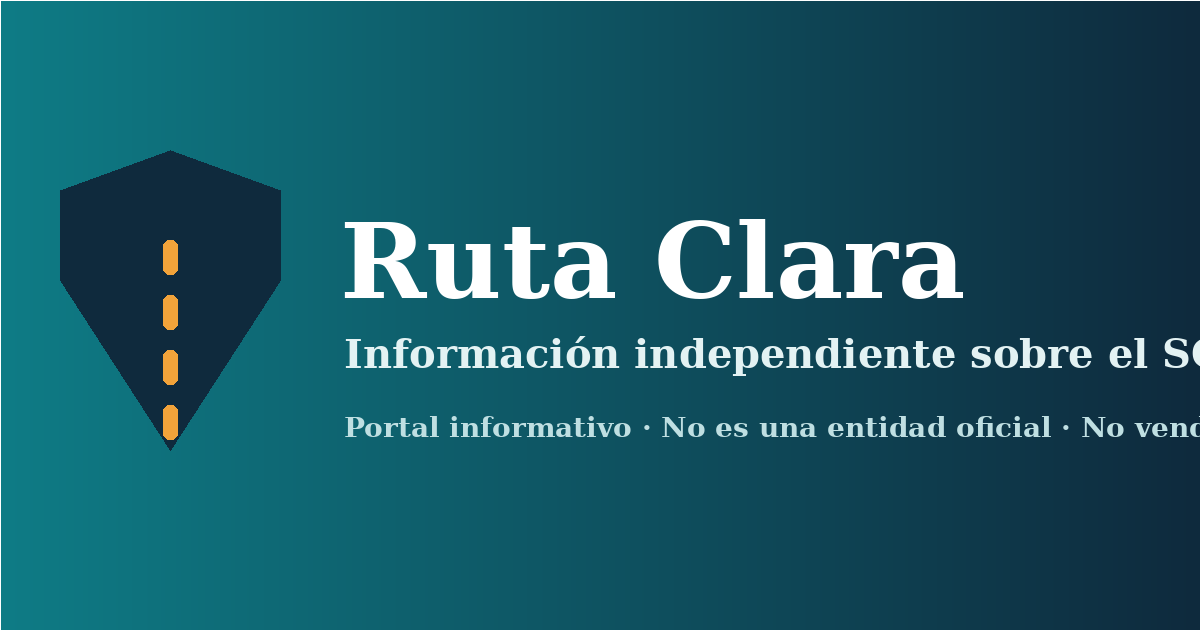
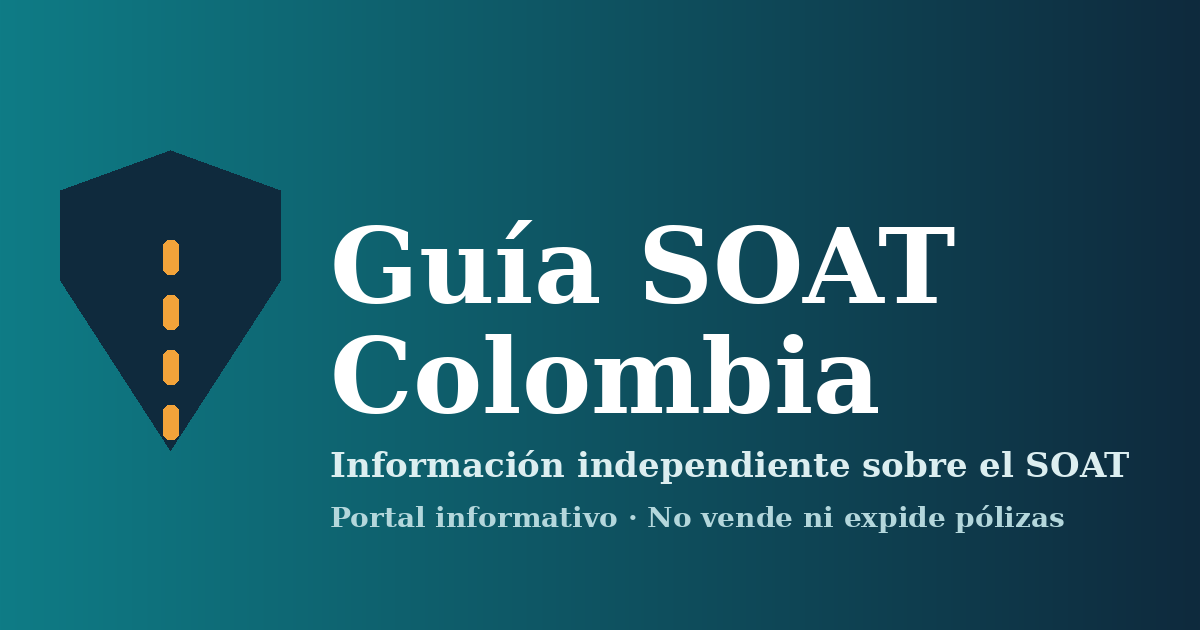
Renombrar el portal a Guia SOAT Colombia y anadir articulo sobre pago seguro

Changed region(s): [[0.2775, 0.5127, 1.0, 0.7841], [0.2775, 0.3317, 0.8017, 0.4825], [0.2775, 0.7841, 0.8942, 0.8444]]

diff --git a/public/assets/css/style.css b/public/assets/css/style.css
@@ -1,4 +1,4 @@
-/* Ruta Clara — hoja de estilos. Sin dependencias externas (rápido y privado). */
+/* Guía SOAT Colombia — hoja de estilos. Sin dependencias externas (rápido y privado). */
 :root{
   --ink:#0f2a3d; --ink-2:#27465b; --muted:#5b7080; --line:#dde3e7;
   --teal:#0e7c86; --teal-d:#0a5f67; --teal-l:#e3f2f3;

diff --git a/src/content/articles/13-como-comprar-o-pagar-el-soat-de-forma-segura.php b/src/content/articles/13-como-comprar-o-pagar-el-soat-de-forma-segura.php
@@ -1,0 +1,62 @@
+<?php
+return [
+    'slug' => 'como-comprar-o-pagar-el-soat-de-forma-segura',
+    'category' => 'guias',
+    'order' => 13,
+    'featured' => false,
+    'published' => '2026-11-23',
+    'updated' => '2026-11-23',
+    'title' => 'Cómo comprar o pagar el SOAT de forma segura y evitar fraudes',
+    'description' => 'Guía informativa para comprar o renovar el SOAT solo con aseguradoras autorizadas, comprobar la póliza en el RUNT y reconocer señales de fraude. Este portal no vende ni cobra.',
+    'summary' => 'Cómo elegir dónde comprar o pagar el SOAT, qué comprobar antes y después de pagar y qué señales delatan un fraude. Guía informativa: aquí no se vende ni se paga nada.',
+    'verification' => 'Las recomendaciones se basan en la regulación general del SOAT y en las advertencias públicas de las entidades del sector. Los canales de pago y las promociones cambian: confirma siempre en la web oficial de la aseguradora y en el RUNT.',
+    'sources' => [
+        ['Superintendencia Financiera de Colombia', 'https://www.superfinanciera.gov.co'],
+        ['Fasecolda', 'https://www.fasecolda.com'],
+        ['RUNT: sitio oficial', 'https://www.runt.com.co'],
+        ['Ministerio de Transporte', 'https://www.mintransporte.gov.co'],
+    ],
+    'related' => ['tarifas-soat-2026', 'como-verificar-si-el-soat-esta-vigente', 'como-consultar-el-soat-por-placa'],
+    'faq' => [
+        ['¿Puedo pagar el SOAT en este portal?', 'No. Guía SOAT Colombia es un portal informativo independiente: no vende, expide ni renueva pólizas y no recibe pagos. El SOAT solo lo expiden las aseguradoras autorizadas.'],
+        ['¿Se puede conseguir el SOAT más barato con un descuento?', 'Las tarifas del SOAT son reguladas y uniformes para cada categoría de vehículo. Desconfía de ofertas muy por debajo de la tarifa publicada: pueden ser fraude.'],
+        ['¿Cómo compruebo que mi pago generó una póliza válida?', 'Guarda el comprobante y verifica la póliza con tu placa en la plataforma oficial. Si no aparece, contacta de inmediato a la aseguradora que la expidió.'],
+    ],
+    'body' => <<<'HTML'
+<p>Comprar o renovar el SOAT es un trámite sencillo, pero también un blanco frecuente de estafas: páginas que imitan a aseguradoras, ofertas por redes sociales y pólizas que nunca se registran. Esta guía te ayuda a pagar con seguridad. <strong>Importante:</strong> este portal es informativo; no vende ni cobra el SOAT.</p>
+
+<h2>Dónde se compra o se paga el SOAT</h2>
+<p>El SOAT solo lo pueden expedir las <strong>aseguradoras autorizadas</strong> por la Superintendencia Financiera, ya sea en sus oficinas, en su página web oficial o a través de los canales que ellas mismas habiliten. Antes de pagar, comprueba que la entidad esté autorizada y entra a su sitio escribiendo tú mismo la dirección o desde la página de la propia aseguradora, no desde un anuncio o un mensaje que recibiste.</p>
+
+<h2>Cuánto debe costar</h2>
+<p>La prima del SOAT está regulada y es igual para todas las aseguradoras según la categoría del vehículo. Puedes contrastar el valor total en nuestra tabla de <a href="/tarifas/tarifas-soat-2026">tarifas SOAT 2026</a> y en la web de la aseguradora. Un precio notablemente inferior es una señal de alerta.</p>
+
+<h2>Antes de pagar</h2>
+<ul>
+  <li>Confirma que la dirección web sea la oficial de la aseguradora y que la conexión sea segura (https).</li>
+  <li>Verifica que la placa y el tipo de vehículo que aparecen sean correctos: de ellos depende el valor.</li>
+  <li>No pagues a cuentas personales ni por transferencias a terceros que te pida un supuesto asesor.</li>
+  <li>Desconfía de la urgencia ("solo hoy", "último cupo") y de quien te pida datos que no son necesarios.</li>
+</ul>
+
+<h2>Después de pagar</h2>
+<ol>
+  <li>Guarda el comprobante de pago y el documento de la póliza.</li>
+  <li>Comprueba que la póliza aparece registrada con tu placa. Mira [[como-consultar-el-soat-por-placa|cómo consultar el SOAT por placa]] y [[como-verificar-si-el-soat-esta-vigente|cómo verificar si está vigente]].</li>
+  <li>Si pasado un tiempo prudente no aparece, reclama a la aseguradora que la expidió y conserva toda la evidencia.</li>
+</ol>
+
+<div class="callout">
+  <p><strong>Regla de oro:</strong> nadie debería pedirte contraseñas, claves de tu banco o códigos de verificación para venderte un SOAT. Si lo hacen, detén el pago.</p>
+</div>
+
+<h2>Señales de fraude frecuentes</h2>
+<ul>
+  <li>Páginas con el logo de una aseguradora pero con una dirección web distinta a la oficial.</li>
+  <li>Ofertas por mensajería o redes sociales con precios por debajo de la tarifa.</li>
+  <li>Pólizas en PDF que no se pueden comprobar con la placa en el registro oficial.</li>
+  <li>Cobros adicionales no explicados o "gestión" por un trámite que no los requiere.</li>
+</ul>
+<p>Si sospechas de un fraude, no sigas pagando, reúne las pruebas y repórtalo a la aseguradora y a las autoridades competentes. Para más contexto sobre la cobertura, consulta [[que-es-el-soat-en-colombia|qué es el SOAT]] y [[multas-por-conducir-sin-soat|las consecuencias de circular sin SOAT]].</p>
+HTML,
+];

diff --git a/src/content/pages/aviso-legal.php b/src/content/pages/aviso-legal.php
@@ -2,8 +2,8 @@
 return [
     'slug' => 'aviso-legal',
     'title' => 'Aviso legal',
-    'description' => 'Aviso legal de Ruta Clara: naturaleza informativa e independiente del portal, ausencia de vínculo con entidades oficiales y limitación de responsabilidad.',
-    'lead' => 'Qué es y qué no es Ruta Clara.',
+    'description' => 'Aviso legal de Guía SOAT Colombia: naturaleza informativa e independiente del portal, ausencia de vínculo con entidades oficiales y limitación de responsabilidad.',
+    'lead' => 'Qué es y qué no es Guía SOAT Colombia.',
     'body' => <<<'HTML'
 <div class="callout warn"><p><strong>Datos del responsable pendientes.</strong> La identificación del titular del portal (nombre o razón social, documento de identificación y domicilio) se publicará aquí antes de activar la publicidad. Los campos marcados como <strong>[PENDIENTE]</strong> son marcadores provisionales y no corresponden a datos reales.</p></div>
 
@@ -16,19 +16,19 @@ return [
 </ul>
 
 <h2>Naturaleza del portal</h2>
-<p>Ruta Clara es un <strong>portal informativo independiente</strong> sobre el SOAT en Colombia. Ruta Clara <strong>no</strong> es una aseguradora, <strong>no</strong> vende, expide ni renueva pólizas, <strong>no</strong> actúa como intermediario de seguros, <strong>no</strong> recibe pagos por pólizas y <strong>no</strong> solicita información bancaria.</p>
+<p>Guía SOAT Colombia es un <strong>portal informativo independiente</strong> sobre el SOAT en Colombia. Guía SOAT Colombia <strong>no</strong> es una aseguradora, <strong>no</strong> vende, expide ni renueva pólizas, <strong>no</strong> actúa como intermediario de seguros, <strong>no</strong> recibe pagos por pólizas y <strong>no</strong> solicita información bancaria.</p>
 
 <h2>Ausencia de vínculo con entidades oficiales</h2>
-<p>Ruta Clara no es un sitio del Gobierno de Colombia y no está afiliado, patrocinado ni respaldado por el RUNT, la ADRES, la Superintendencia Financiera, el Ministerio de Transporte, Fasecolda ni por ninguna aseguradora. Los nombres de esas entidades se citan únicamente para identificar fuentes de información.</p>
+<p>Guía SOAT Colombia no es un sitio del Gobierno de Colombia y no está afiliado, patrocinado ni respaldado por el RUNT, la ADRES, la Superintendencia Financiera, el Ministerio de Transporte, Fasecolda ni por ninguna aseguradora. Los nombres de esas entidades se citan únicamente para identificar fuentes de información.</p>
 
 <h2>Carácter del contenido</h2>
 <p>El contenido es educativo y se elabora a partir de fuentes públicas citadas en cada artículo. No constituye asesoría legal, financiera ni de seguros. Las normas, tarifas y procedimientos pueden cambiar; cada artículo indica su fecha de revisión. Antes de tomar decisiones, confirma la información en la fuente oficial.</p>
 
 <h2>Limitación de responsabilidad</h2>
-<p>Hacemos un esfuerzo razonable por mantener la información exacta y actualizada, pero no garantizamos que esté libre de errores u omisiones. Ruta Clara no se hace responsable de las decisiones tomadas con base en el contenido del portal ni del contenido de sitios de terceros enlazados.</p>
+<p>Hacemos un esfuerzo razonable por mantener la información exacta y actualizada, pero no garantizamos que esté libre de errores u omisiones. Guía SOAT Colombia no se hace responsable de las decisiones tomadas con base en el contenido del portal ni del contenido de sitios de terceros enlazados.</p>
 
 <h2>Propiedad intelectual</h2>
-<p>Los textos, el diseño, el logotipo y las ilustraciones de Ruta Clara son obra original del proyecto. Los nombres y marcas de terceros pertenecen a sus titulares. Puedes citar fragmentos breves indicando la fuente y enlazando al artículo original.</p>
+<p>Los textos, el diseño, el logotipo y las ilustraciones de Guía SOAT Colombia son obra original del proyecto. Los nombres y marcas de terceros pertenecen a sus titulares. Puedes citar fragmentos breves indicando la fuente y enlazando al artículo original.</p>
 
 <h2>Enlaces externos</h2>
 <p>El portal enlaza a sitios oficiales y de terceros para tu conveniencia. No controlamos su contenido ni sus políticas.</p>

diff --git a/src/content/pages/informacion-editorial.php b/src/content/pages/informacion-editorial.php
@@ -2,14 +2,14 @@
 return [
     'slug' => 'informacion-editorial',
     'title' => 'Información editorial',
-    'description' => 'Línea editorial de Ruta Clara: independencia, rigor, transparencia, política de correcciones y cómo se financia el portal.',
+    'description' => 'Línea editorial de Guía SOAT Colombia: independencia, rigor, transparencia, política de correcciones y cómo se financia el portal.',
     'lead' => 'Quiénes somos, cómo trabajamos y qué compromisos asumimos.',
     'body' => <<<'HTML'
 <h2>Misión</h2>
 <p>Ayudar a las personas a entender el SOAT en Colombia con información clara, verificada y actualizada, y a que sepan dónde hacer sus consultas oficiales.</p>
 
 <h2>Independencia</h2>
-<p>Ruta Clara es un portal independiente. No pertenece a una aseguradora, no recibe comisiones por pólizas y no es un intermediario de seguros. No estamos afiliados a ninguna entidad oficial.</p>
+<p>Guía SOAT Colombia es un portal independiente. No pertenece a una aseguradora, no recibe comisiones por pólizas y no es un intermediario de seguros. No estamos afiliados a ninguna entidad oficial.</p>
 
 <h2>Financiación</h2>
 <p>El portal puede promocionarse mediante publicidad de pago en buscadores para llegar a quienes buscan información sobre el SOAT. Esa publicidad no influye en el contenido editorial. Si en el futuro se incorporan otros ingresos, los declararemos aquí.</p>
@@ -27,6 +27,6 @@ return [
 <p>Si encontramos un error, lo corregimos y actualizamos la fecha de revisión. Si nos escribes con una corrección, la revisaremos con las fuentes oficiales.</p>
 
 <h2>Autoría</h2>
-<p>Los artículos son elaborados por el equipo editorial de Ruta Clara. La identificación del responsable del portal se publicará en el aviso legal cuando el titular la defina.</p>
+<p>Los artículos son elaborados por el equipo editorial de Guía SOAT Colombia. La identificación del responsable del portal se publicará en el aviso legal cuando el titular la defina.</p>
 HTML,
 ];

diff --git a/src/content/pages/terminos-de-uso.php b/src/content/pages/terminos-de-uso.php
@@ -2,14 +2,14 @@
 return [
     'slug' => 'terminos-de-uso',
     'title' => 'Términos de uso',
-    'description' => 'Términos de uso de Ruta Clara: condiciones de acceso, uso permitido del contenido, exclusión de garantías y limitación de responsabilidad.',
+    'description' => 'Términos de uso de Guía SOAT Colombia: condiciones de acceso, uso permitido del contenido, exclusión de garantías y limitación de responsabilidad.',
     'lead' => 'Reglas básicas para usar este portal informativo.',
     'body' => <<<'HTML'
 <h2>Aceptación</h2>
-<p>Al acceder y usar Ruta Clara aceptas estos términos. Si no estás de acuerdo, no uses el sitio.</p>
+<p>Al acceder y usar Guía SOAT Colombia aceptas estos términos. Si no estás de acuerdo, no uses el sitio.</p>
 
 <h2>Servicio</h2>
-<p>Ruta Clara ofrece contenido informativo y educativo sobre el SOAT en Colombia. <strong>No presta servicios de seguros</strong>, no vende ni renueva pólizas, no realiza consultas oficiales y no tramita pagos.</p>
+<p>Guía SOAT Colombia ofrece contenido informativo y educativo sobre el SOAT en Colombia. <strong>No presta servicios de seguros</strong>, no vende ni renueva pólizas, no realiza consultas oficiales y no tramita pagos.</p>
 
 <h2>Uso permitido</h2>
 <ul>
@@ -28,7 +28,7 @@ return [
 <p>Los enlaces a sitios de terceros se ofrecen como referencia. No respondemos por su contenido ni por las transacciones que realices en ellos.</p>
 
 <h2>Limitación de responsabilidad</h2>
-<p>En la máxima medida permitida por la ley, Ruta Clara no será responsable por daños derivados del uso del sitio o de la confianza en su contenido.</p>
+<p>En la máxima medida permitida por la ley, Guía SOAT Colombia no será responsable por daños derivados del uso del sitio o de la confianza en su contenido.</p>
 
 <h2>Cambios y ley aplicable</h2>
 <p>Podemos modificar estos términos publicando la nueva versión. Se rigen por las leyes de la República de Colombia. Última revisión: {{FECHA_REVISION}}.</p>

diff --git a/src/content/articles/02-como-consultar-el-soat-por-placa.php b/src/content/articles/02-como-consultar-el-soat-por-placa.php
@@ -17,7 +17,7 @@ return [
     ],
     'related' => ['como-verificar-si-el-soat-esta-vigente', 'como-consultar-el-soat-en-el-runt', 'que-es-el-soat-en-colombia'],
     'faq' => [
-        ['¿Este sitio puede consultar mi placa?', 'No. Ruta Clara no tiene acceso a bases de datos oficiales ni ofrece un servicio de consulta. Te explicamos cómo hacerlo en el sitio oficial del RUNT.'],
+        ['¿Este sitio puede consultar mi placa?', 'No. Guía SOAT Colombia no tiene acceso a bases de datos oficiales ni ofrece un servicio de consulta. Te explicamos cómo hacerlo en el sitio oficial del RUNT.'],
         ['¿Tengo que pagar para consultar el SOAT?', 'La consulta ciudadana en la plataforma oficial no debería tener costo. Desconfía de páginas que te cobren por mostrarte información de una placa.'],
         ['¿Puedo consultar el SOAT de un vehículo que no es mío?', 'Depende de los datos que pida la plataforma oficial. El RUNT puede exigir información de verificación del propietario para mostrar ciertos datos del vehículo.'],
     ],
@@ -25,7 +25,7 @@ return [
 <p>Consultar el SOAT por placa significa revisar, en el registro oficial, si un vehículo tiene una póliza registrada y cuáles son sus fechas de vigencia. La fuente oficial para hacerlo es el <strong>RUNT</strong> (Registro Único Nacional de Tránsito). A continuación te explicamos el procedimiento general.</p>
 
 <div class="callout warn">
-  <p><strong>Aclaración:</strong> Ruta Clara <strong>no realiza consultas</strong> ni muestra datos de vehículos. Solo te orienta para que uses las plataformas oficiales.</p>
+  <p><strong>Aclaración:</strong> Guía SOAT Colombia <strong>no realiza consultas</strong> ni muestra datos de vehículos. Solo te orienta para que uses las plataformas oficiales.</p>
 </div>
 
 <h2>Qué necesitas antes de empezar</h2>

diff --git a/src/content/articles/12-preguntas-frecuentes-sobre-el-soat.php b/src/content/articles/12-preguntas-frecuentes-sobre-el-soat.php
@@ -22,11 +22,11 @@ return [
         ['¿Quién debe tener SOAT?', 'Todo vehículo automotor que transite por el territorio nacional, con las excepciones que establezca la norma.'],
         ['¿Cuánto dura el SOAT?', 'La póliza se expide por un año.'],
         ['¿Cuánto cuesta el SOAT en 2026?', 'Depende de la categoría. Consulta las tarifas máximas en nuestra tabla de tarifas SOAT 2026; el valor final lo confirma la aseguradora autorizada.'],
-        ['¿Dónde verifico si mi SOAT está vigente?', 'En el RUNT, la plataforma oficial. Ruta Clara no consulta datos por ti.'],
+        ['¿Dónde verifico si mi SOAT está vigente?', 'En el RUNT, la plataforma oficial. Guía SOAT Colombia no consulta datos por ti.'],
         ['¿Qué pasa si conduzco sin SOAT?', 'Multa de 30 SMDLV e inmovilización del vehículo, según el Código Nacional de Tránsito.'],
         ['¿El SOAT cubre mi carro si lo chocan?', 'No. Cubre a las personas, no los daños materiales al vehículo.'],
         ['¿Debo estar en regla para que atiendan a una víctima?', 'La atención de urgencias a las víctimas no debe depender de trámites previos. Si hay dudas sobre la cobertura, consulta a la aseguradora o a la Superintendencia Financiera.'],
-        ['¿Ruta Clara vende SOAT?', 'No. Es un portal informativo independiente y no vende, expide ni renueva pólizas.'],
+        ['¿Guía SOAT Colombia vende SOAT?', 'No. Es un portal informativo independiente y no vende, expide ni renueva pólizas.'],
         ['¿Qué hago si el SOAT que compré no aparece en el RUNT?', 'Contacta a la aseguradora para que confirme el reporte y conserva el comprobante. Mira la guía de vigencia para más pasos.'],
     ],
     'body' => <<<'HTML'

diff --git a/src/content/pages/politica-de-privacidad.php b/src/content/pages/politica-de-privacidad.php
@@ -2,7 +2,7 @@
 return [
     'slug' => 'politica-de-privacidad',
     'title' => 'Política de privacidad',
-    'description' => 'Política de privacidad y tratamiento de datos personales de Ruta Clara: qué datos se tratan, finalidades, derechos del titular y contacto.',
+    'description' => 'Política de privacidad y tratamiento de datos personales de Guía SOAT Colombia: qué datos se tratan, finalidades, derechos del titular y contacto.',
     'lead' => 'Cómo tratamos los datos de quienes visitan el portal.',
     'body' => <<<'HTML'
 <div class="callout warn"><p><strong>Responsable pendiente de identificar.</strong> Los datos del responsable del tratamiento aparecen como marcadores <strong>[PENDIENTE]</strong> hasta que el titular del portal los complete. Esta política debe ser revisada por el titular y, de ser necesario, por un asesor jurídico antes de la publicación definitiva.</p></div>
@@ -11,7 +11,7 @@ return [
 <p>[NOMBRE O RAZÓN SOCIAL – PENDIENTE] · [NIT/CC – PENDIENTE] · [DOMICILIO – PENDIENTE] · [CORREO – PENDIENTE]</p>
 
 <h2>Principio general: recopilamos lo mínimo</h2>
-<p>Ruta Clara <strong>no pide que te registres</strong>, no ofrece pagos, no solicita datos bancarios y no tiene formularios que recojan datos personales. El portal no consulta bases de datos oficiales sobre tu vehículo o tu persona.</p>
+<p>Guía SOAT Colombia <strong>no pide que te registres</strong>, no ofrece pagos, no solicita datos bancarios y no tiene formularios que recojan datos personales. El portal no consulta bases de datos oficiales sobre tu vehículo o tu persona.</p>
 
 <h2>Qué datos se pueden tratar</h2>
 <ul>

diff --git a/src/views/home.php b/src/views/home.php
@@ -8,7 +8,7 @@ uasort($latest, fn($x, $y) => strcmp($y['updated'], $x['updated']) ?: ($x['order
 $latest = array_slice(array_values($latest), 0, 6);
 
 $faq = [
-    ['¿Ruta Clara vende o renueva el SOAT?', 'No. Ruta Clara es un portal informativo independiente. No vende, expide ni renueva pólizas, no recibe pagos y no solicita datos bancarios. El SOAT solo lo expiden las aseguradoras autorizadas.'],
+    ['¿Guía SOAT Colombia vende o renueva el SOAT?', 'No. Guía SOAT Colombia es un portal informativo independiente. No vende, expide ni renueva pólizas, no recibe pagos y no solicita datos bancarios. El SOAT solo lo expiden las aseguradoras autorizadas.'],
     ['¿Pueden consultar mi SOAT en este sitio?', 'No. Este portal no tiene acceso a bases de datos oficiales. Te explicamos cómo hacer la consulta en las plataformas oficiales, como el RUNT, y te enlazamos a ellas.'],
     ['¿Cuánto cuesta el SOAT en 2026?', 'El valor depende de la categoría del vehículo. En la sección de tarifas publicamos las tarifas máximas 2026 con su fuente y fecha de revisión. El precio exacto lo confirma la aseguradora autorizada.'],
     ['¿Qué pasa si conduzco sin SOAT vigente?', 'Es una infracción de tránsito que implica multa e inmovilización del vehículo. Detallamos el marco legal y los valores de referencia en nuestra guía sobre multas.'],

diff --git a/src/content/pages/contacto.php b/src/content/pages/contacto.php
@@ -2,7 +2,7 @@
 return [
     'slug' => 'contacto',
     'title' => 'Contacto',
-    'description' => 'Contacta con el equipo editorial de Ruta Clara para reportar errores, sugerir temas o hacer consultas sobre el portal.',
+    'description' => 'Contacta con el equipo editorial de Guía SOAT Colombia para reportar errores, sugerir temas o hacer consultas sobre el portal.',
     'lead' => 'Escríbenos para reportar errores o sugerir temas.',
     'body' => <<<'HTML'
 <div class="callout warn"><p><strong>Canal de contacto pendiente.</strong> El correo de contacto del portal se publicará aquí cuando el titular lo defina. Hasta entonces el dato es un marcador provisional.</p></div>
@@ -25,6 +25,6 @@ return [
 </ul>
 
 <h2>Seguridad</h2>
-<p>Nunca te pediremos contraseñas, números de tarjeta ni datos bancarios, y no debes enviarlos por correo. Si recibes un mensaje que dice venir de Ruta Clara y los solicita, ignóralo.</p>
+<p>Nunca te pediremos contraseñas, números de tarjeta ni datos bancarios, y no debes enviarlos por correo. Si recibes un mensaje que dice venir de Guía SOAT Colombia y los solicita, ignóralo.</p>
 HTML,
 ];

diff --git a/src/content/articles/05-como-consultar-informacion-en-adres.php b/src/content/articles/05-como-consultar-informacion-en-adres.php
@@ -19,7 +19,7 @@ return [
     'faq' => [
         ['¿Puedo saber en ADRES si mi SOAT está vigente?', 'No es el lugar para eso. La vigencia de la póliza se verifica en el RUNT. La ADRES administra recursos del sistema de salud.'],
         ['¿Por qué aparece la ADRES en el precio del SOAT?', 'Porque una parte del valor que pagas corresponde a una contribución a favor de la ADRES, que en las tarifas 2026 equivale al 52 % de la prima.'],
-        ['¿Ruta Clara tiene relación con la ADRES?', 'No. Es un portal independiente y no representa a ninguna entidad oficial.'],
+        ['¿Guía SOAT Colombia tiene relación con la ADRES?', 'No. Es un portal independiente y no representa a ninguna entidad oficial.'],
     ],
     'body' => <<<'HTML'
 <p>La <strong>ADRES</strong> (Administradora de los Recursos del Sistema General de Seguridad Social en Salud) es la entidad que administra los recursos del sistema de salud colombiano. Aparece en el mundo del SOAT por dos razones: recibe parte de lo que pagas por la póliza y administra recursos para atender a víctimas de accidentes de tránsito en ciertos casos.</p>

diff --git a/src/content/articles/04-como-consultar-el-soat-en-el-runt.php b/src/content/articles/04-como-consultar-el-soat-en-el-runt.php
@@ -17,7 +17,7 @@ return [
     ],
     'related' => ['como-consultar-el-soat-por-placa', 'como-verificar-si-el-soat-esta-vigente', 'como-consultar-informacion-en-adres'],
     'faq' => [
-        ['¿Ruta Clara está afiliado al RUNT?', 'No. Ruta Clara es un portal independiente, sin vínculo con el RUNT ni con ninguna entidad oficial.'],
+        ['¿Guía SOAT Colombia está afiliado al RUNT?', 'No. Guía SOAT Colombia es un portal independiente, sin vínculo con el RUNT ni con ninguna entidad oficial.'],
         ['¿Quién reporta el SOAT al RUNT?', 'Las aseguradoras que expiden la póliza son las encargadas de reportarla al registro. Si no aparece, la aseguradora es el primer contacto.'],
         ['¿El RUNT sirve para algo más que el SOAT?', 'Sí. Es el registro nacional de tránsito: contiene información de vehículos, conductores y otros documentos relacionados.'],
     ],
